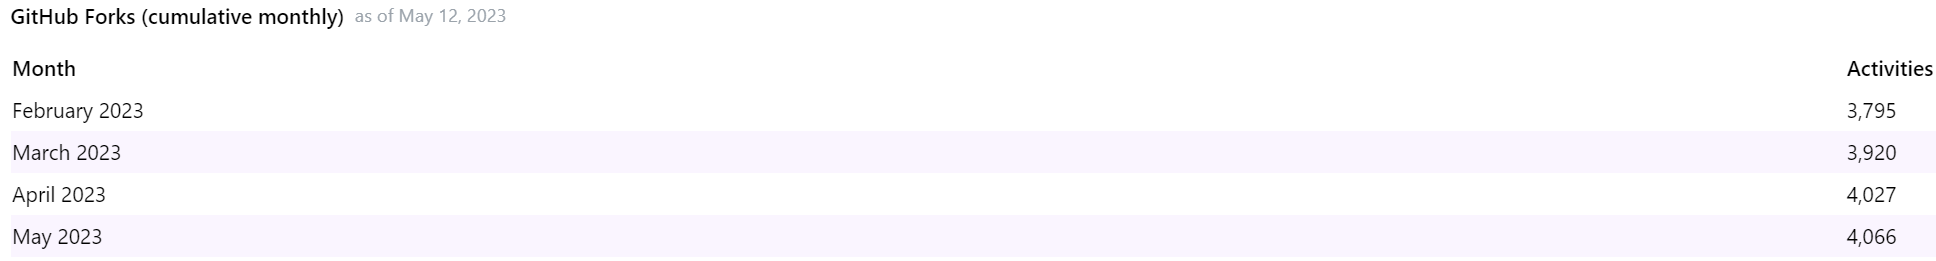
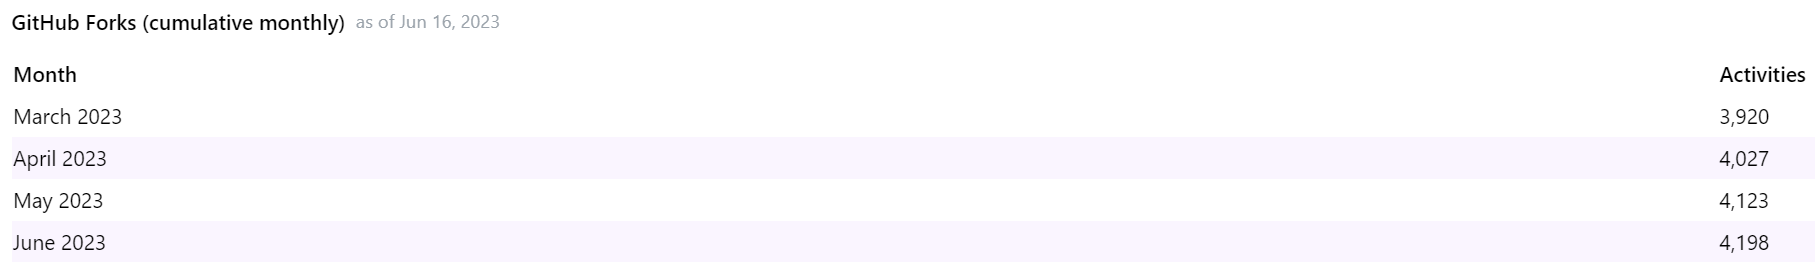
June Extract

diff --git a/README.md b/README.md
@@ -1,7 +1,7 @@
 # open-source-metrics
 Various metrics on some of our open source project - _Work-in-Progress_
 
-📅 Extracted on May 12th 2023
+📅 Extracted on June 16th 2023
 
 # Swagger Projects Combined
 
